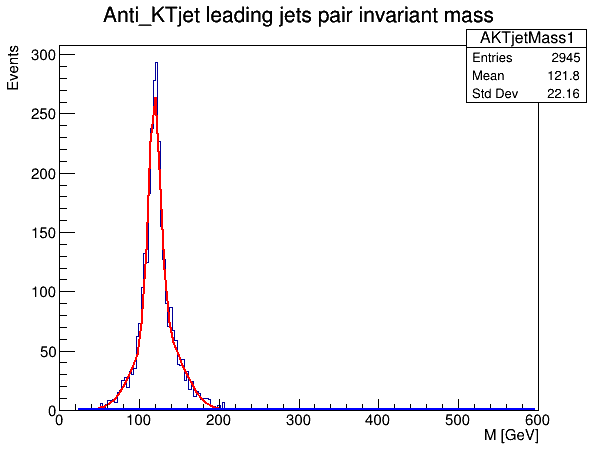
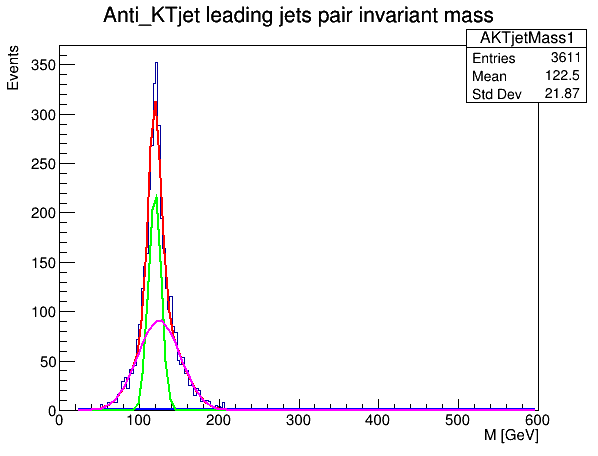
Update dbl gaus+expo fit

diff --git a/Delphes/src/PairingDiHiggs.C b/Delphes/src/PairingDiHiggs.C
@@ -147,7 +147,7 @@ void PairingDiHiggs(const char *inputFile, const char *outputFile){
          Double_t AKTjetpair[nAKTjet*(nAKTjet-1)/2][6];
 
          AKTjetpaircnt = 0;
-	 if (nAKTjet == 4) {
+	 if (nAKTjet >= 4) {
              //Pairing up leading anti-KT jet pair
 	     for(Int_t akt1entry=0; akt1entry < nAKTjet; akt1entry++){
 	         for(Int_t akt2entry=akt1entry+1; akt2entry < nAKTjet; akt2entry++){
@@ -357,9 +357,11 @@ void PairingDiHiggs(const char *inputFile, const char *outputFile){
      TF1 *jetpair2fit = new TF1("jetpair2fit", "gaus+gaus(3)+expo(6)",25,600);
      TF1 *fSignal = new TF1("fSignal","gaus+gaus(3)",20,600);
      TF1 *fBackground = new TF1("fBackground","expo", 20,600);
+     TF1 *f1peak = new TF1("f1peak","gaus",20,600);
+     TF1 *f2peak = new TF1("f2peak","gaus",20,600);
      Double_t param[8];
 
-     jetpair2fit->SetParameters(200,133,10,20,100,10,2,-0.0001);
+     jetpair2fit->SetParameters(200,120,10,20,100,10,2,-0.0001);
      jetpair2fit->SetParLimits(0,80,200);
      jetpair2fit->SetParLimits(1,110,130);
      jetpair2fit->SetParLimits(2,5,25);
@@ -385,24 +387,32 @@ void PairingDiHiggs(const char *inputFile, const char *outputFile){
      jetpair1fit->GetParameters(param);
      fSignal->SetParameters(&param[0]);
      fBackground->SetParameters(&param[6]);
+     f1peak->SetParameters(&param[0]);
+     f2peak->SetParameters(&param[3]);
      TH1D *AKTjetMass1Signal = new TH1D(*AKTjetMass1);
      AKTjetMass1Signal->Sumw2();
      AKTjetMass1Signal->Add(fBackground,-1);
      AKTjetMass1->GetXaxis()->SetTitle("M [GeV]");
      AKTjetMass1->GetYaxis()->SetTitle("Events");
-     AKTjetMass1->Draw();fBackground->SetLineColor(4);fBackground->Draw("SAME"); 
+     AKTjetMass1->Draw();fBackground->SetLineColor(4);fBackground->Draw("SAME");
+     f1peak->SetLineColor(3);f1peak->Draw("SAME");
+     f2peak->SetLineColor(6);f2peak->Draw("SAME");
      mycanvas->SaveAs("AKTjetpair1Mass.png");
 
      AKTjetMass2->Fit("jetpair2fit","R");
      jetpair2fit->GetParameters(param);
      fSignal->SetParameters(&param[0]);
      fBackground->SetParameters(&param[6]);
+     f1peak->SetParameters(&param[0]);
+     f2peak->SetParameters(&param[3]);
      TH1D *AKTjetMass2Signal = new TH1D(*AKTjetMass2);
      AKTjetMass2Signal->Sumw2();
      AKTjetMass2Signal->Add(fBackground,-1);
      AKTjetMass2->GetXaxis()->SetTitle("M [GeV]");
      AKTjetMass2->GetYaxis()->SetTitle("Events");
      AKTjetMass2->Draw();fBackground->SetLineColor(4);fBackground->Draw("SAME"); 
+     f1peak->SetLineColor(3);f1peak->Draw("SAME");
+     f2peak->SetLineColor(6);f2peak->Draw("SAME");
      //AKTjetMass2Signal->Draw("SAME"); fSignal->Draw("SAME");
      mycanvas->SaveAs("AKTjetpair2Mass.png");
      cout <<endl<< "Run gaussian fit for the sub-leading GenJet pair under selection of AKT..."<<endl;
